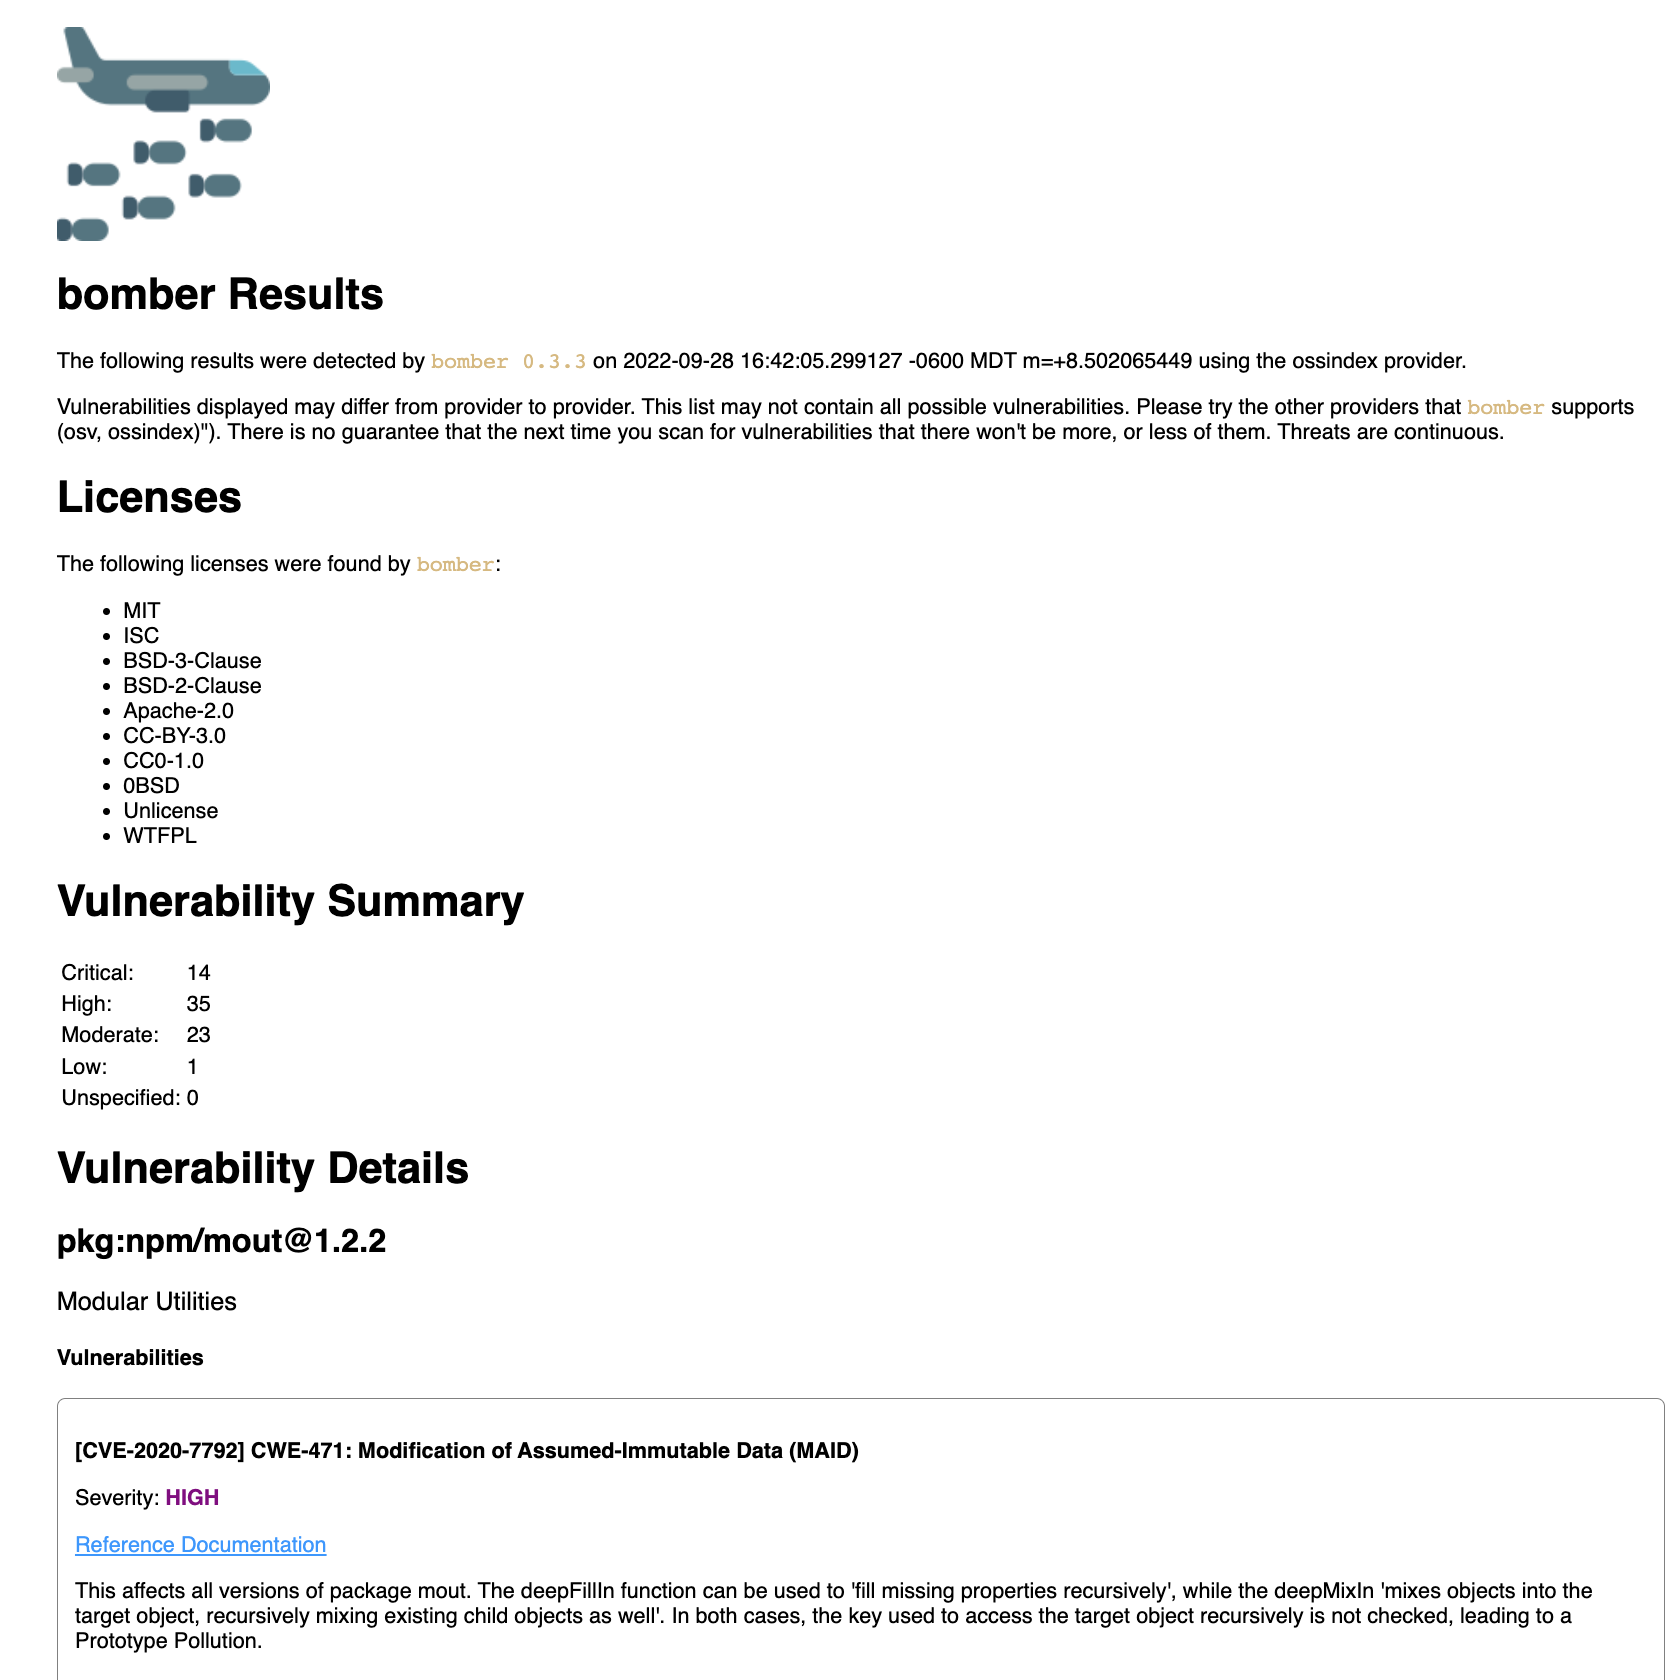
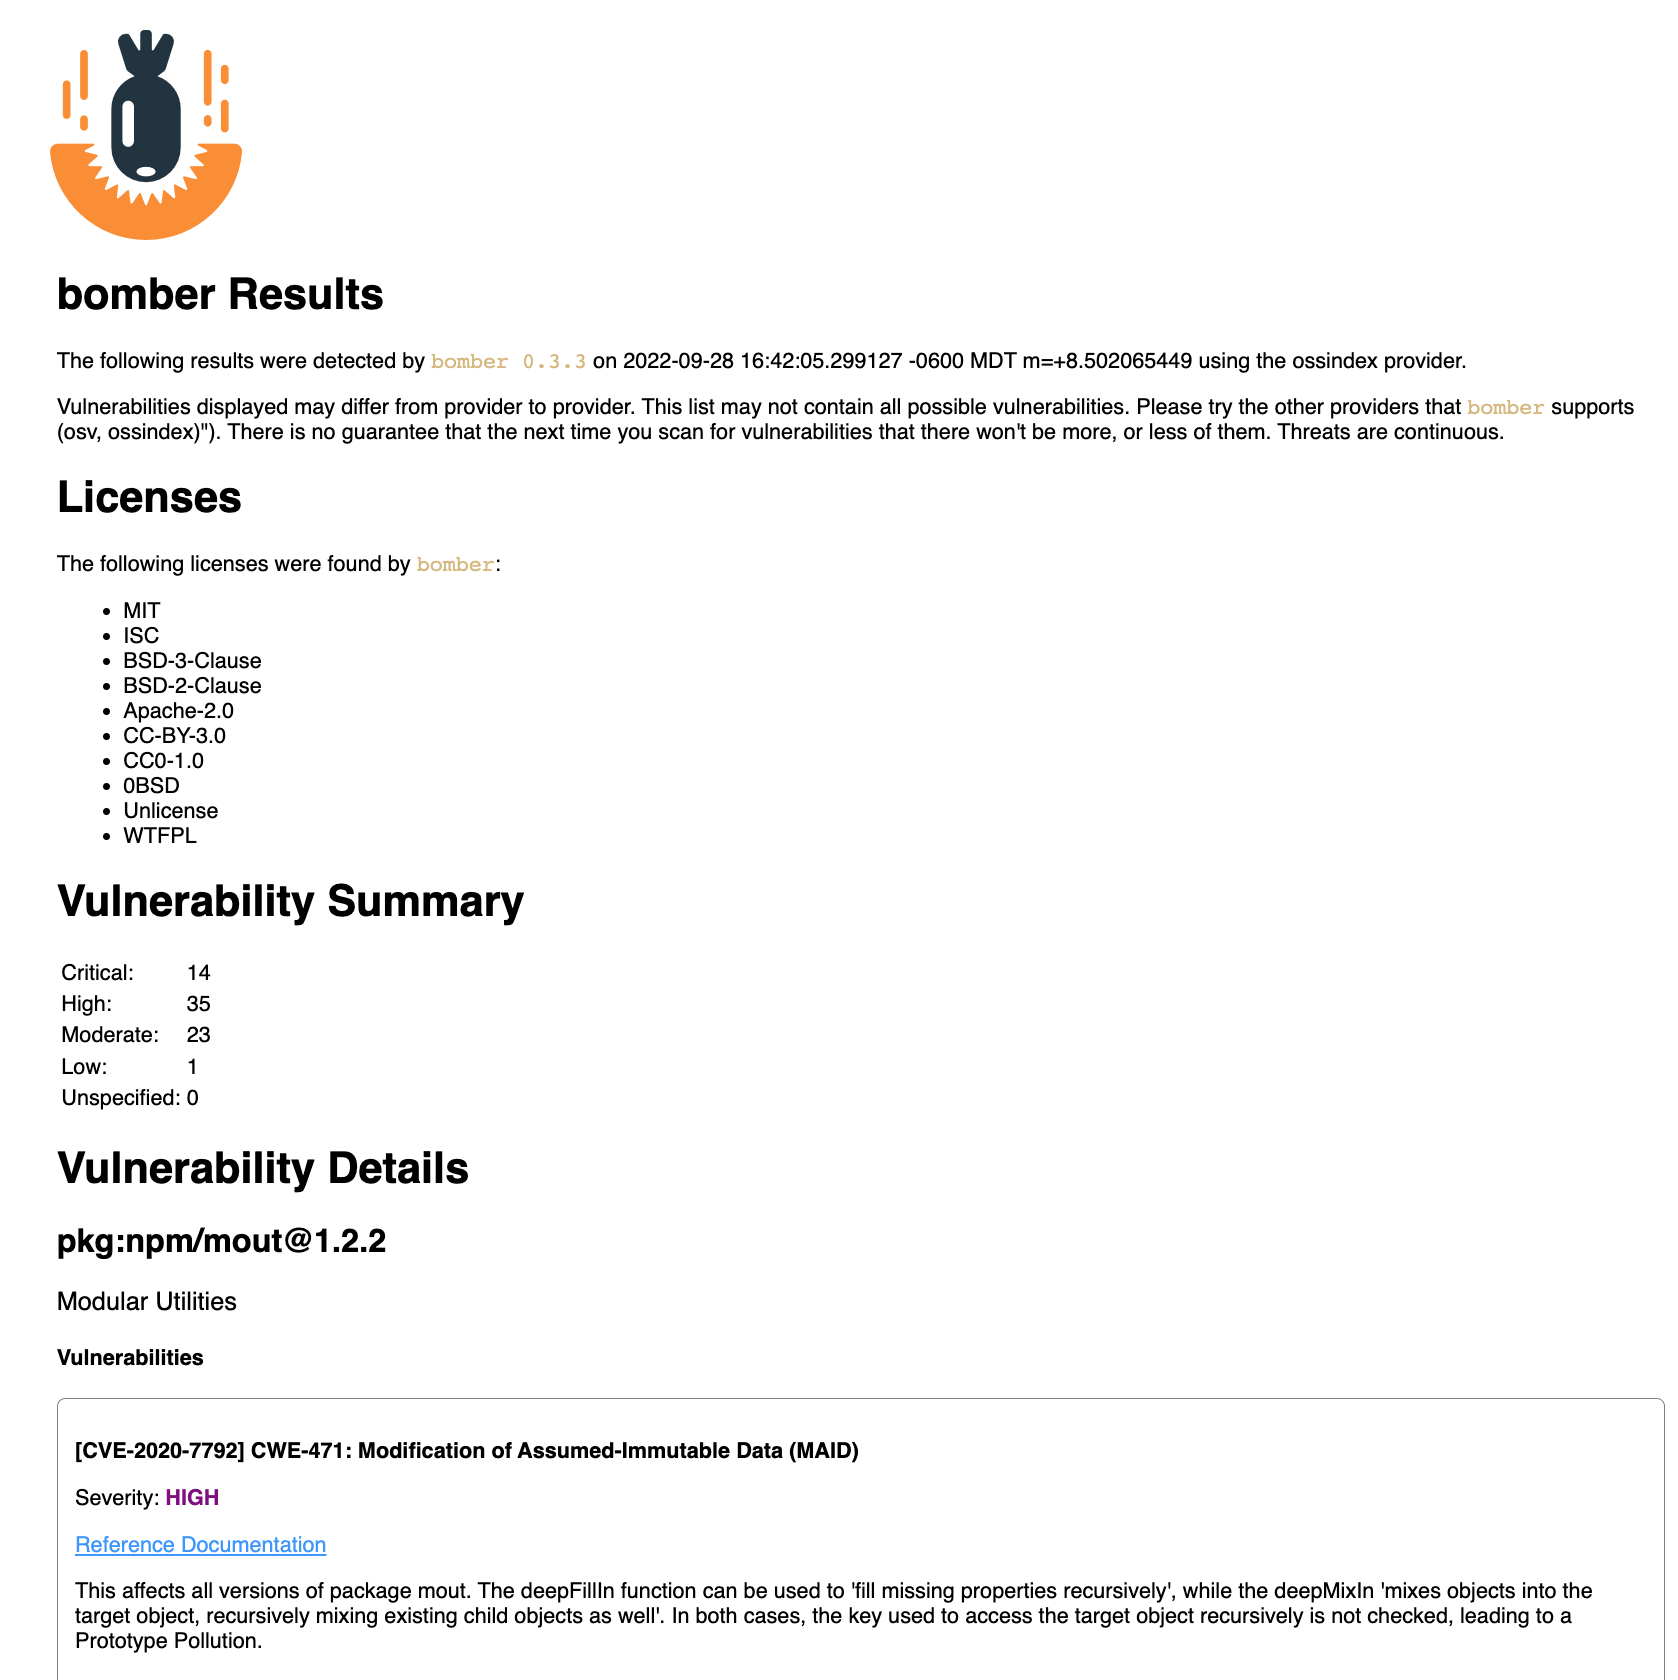
Updated with new branding

Changed region(s): [[0.031, 0.0, 0.1549, 0.1548]]

diff --git a/README.md b/README.md
@@ -1,6 +1,5 @@
-![](img/bomber128x128.png)
+![bomber](img/bomber-readme-logo.png)
 
-# bomber
 [![](https://img.shields.io/badge/Status-BETA-yellow)](CONTRIBUTING.md)
 ![GitHub release (latest by date)](https://img.shields.io/github/v/release/devops-kung-fu/bomber) 
 [![Go Report Card](https://goreportcard.com/badge/github.com/devops-kung-fu/bomber)](https://goreportcard.com/report/github.com/devops-kung-fu/bomber) 
@@ -204,7 +203,7 @@ The current CycloneDX SBOM for ```bomber``` is available [here](./sbom/bomber.cy
 
 ## Credits
 
-A big thank-you to our friends at [Smashicons](https://www.flaticon.com/authors/smashicons) for the ```bomber``` logo.
+A big thank-you to our friends at [ZERO](https://zero.health) for the ```bomber``` logo.
 
 Thank you to [Sonatype](https://sonatype.com) for providing a wicked tool like the [Sonatype OSS Index](https://ossindex.sonatype.org).
 
